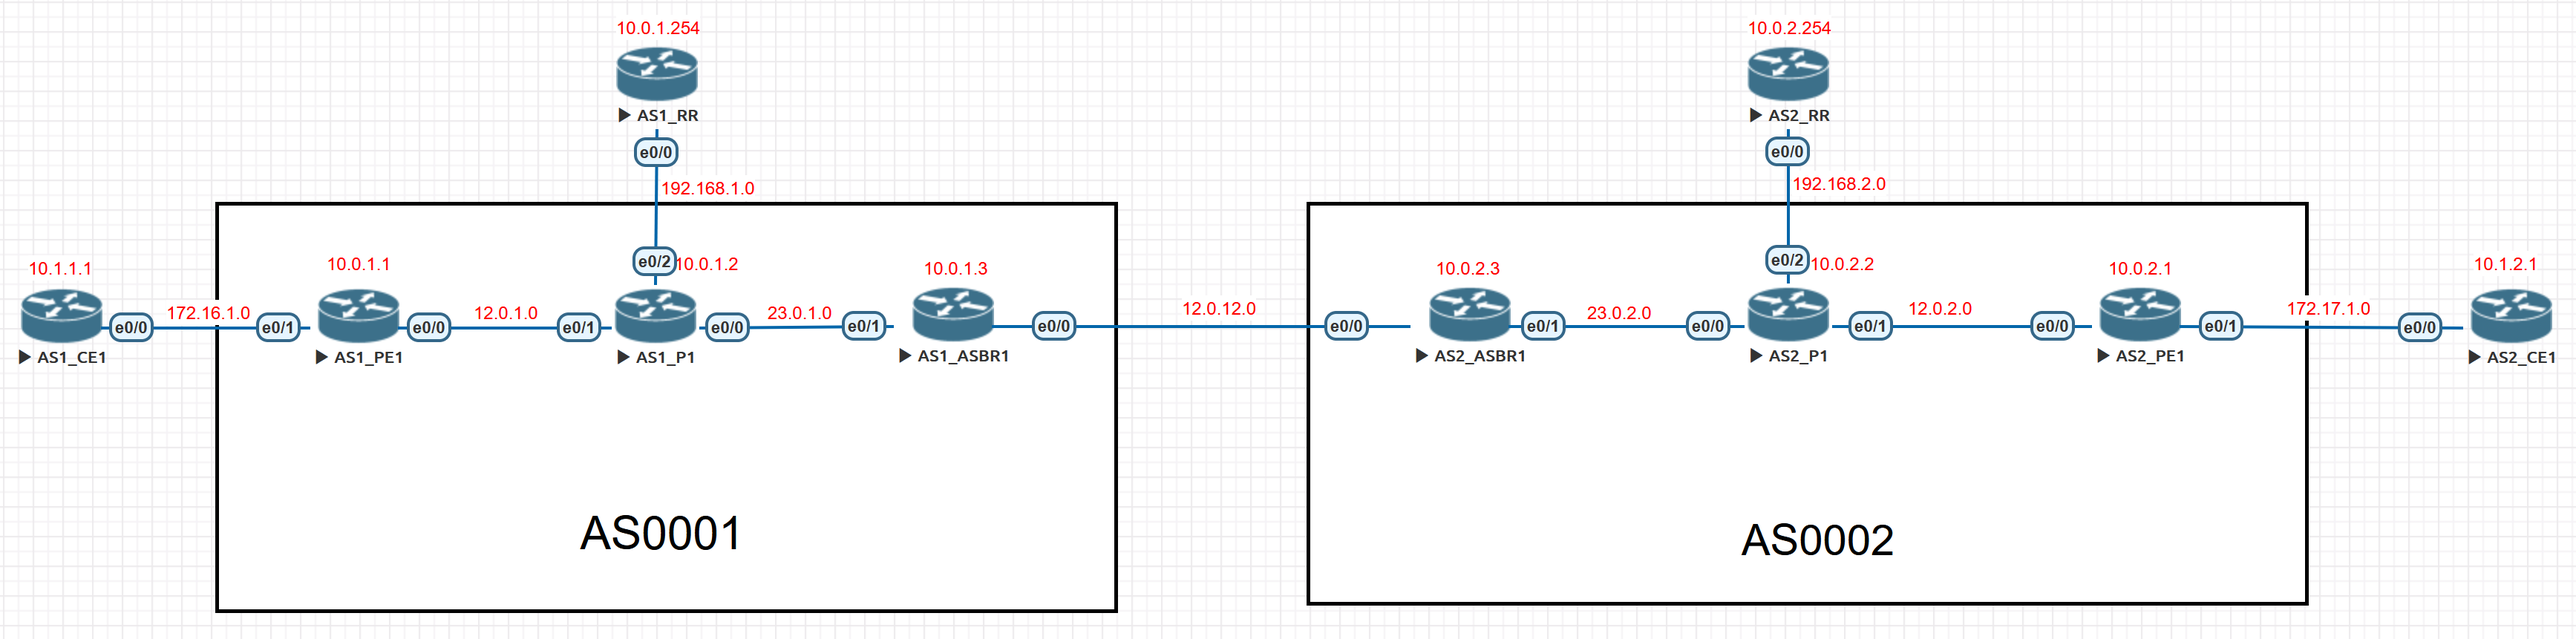
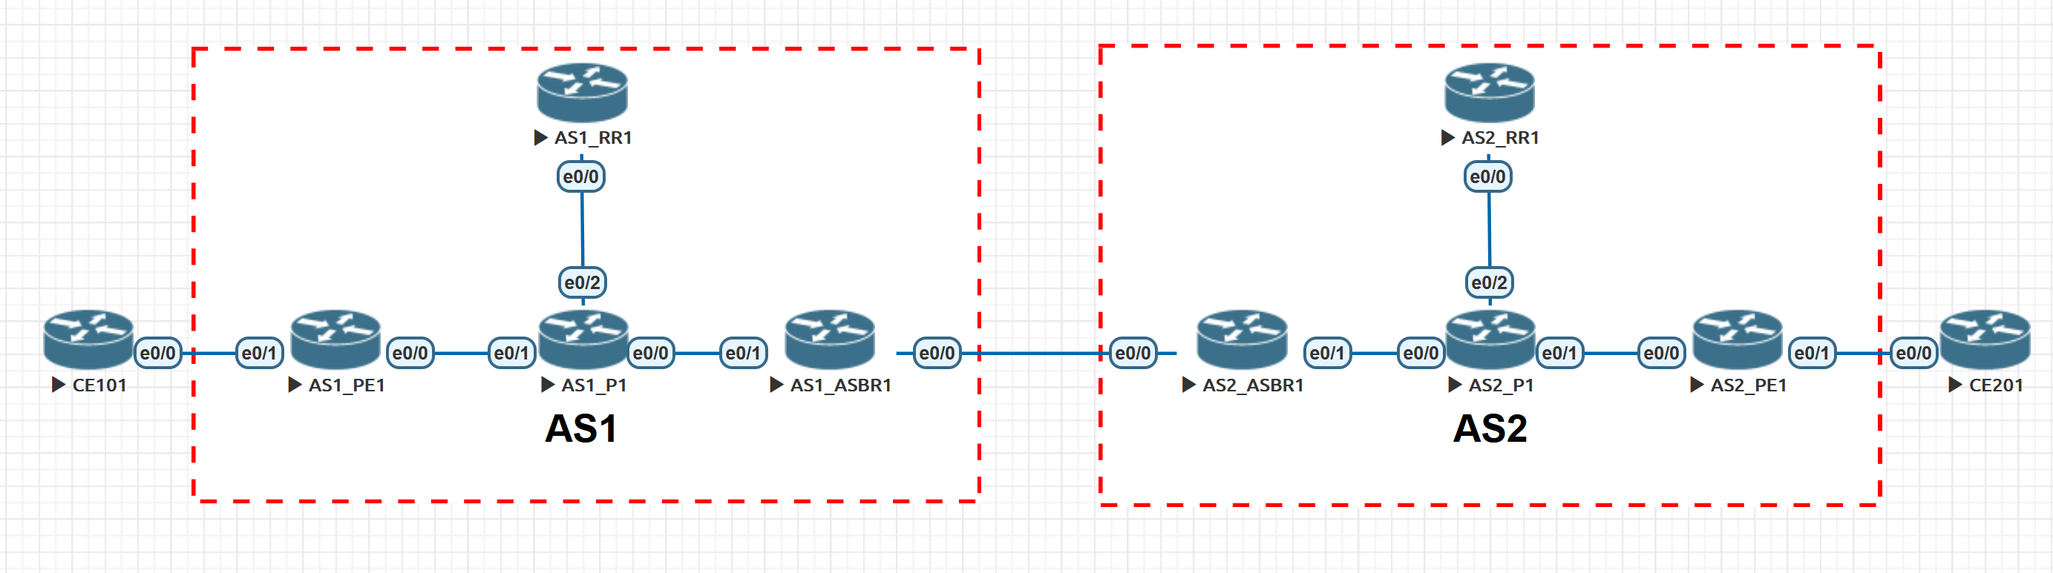
优化设备名称

diff --git a/01_基本配置/AS0001/002_AS1_P1.md b/01_基本配置/AS0001/002_AS1_P1.md
@@ -1,5 +1,6 @@
 #### 初始化
 ```text
+#
 hostname AS1_P1
 no ip domain lookup
 interface Loopback0
@@ -21,25 +22,27 @@ interface Ethernet0/2
 line con 0
  exec-timeout 0 0
  logging synchronous
-
+#
 ```
 
 #### 配置IGP（OSPF）
 ```text
+#
 router ospf 1
 network 10.0.1.2 0.0.0.0 area 0
 network 12.0.1.2 0.0.0.0 area 0
 network 23.0.1.2 0.0.0.0 area 0
 network 192.168.1.2 0.0.0.0 area 0
-
+#
 ```
 
 #### 配置LDP
 ```text
+#
 mpls ldp router-id Loopback0 force
 router ospf 1
 mpls ldp autoconfig
-
+#
 ```
 
 #### 配置BGP（P路由器不需要运行MP-BGP）

diff --git a/01_基本配置/AS0002/002_AS2_P1.md b/01_基本配置/AS0002/002_AS2_P1.md
@@ -1,5 +1,6 @@
 #### 初始化
 ```text
+#
 hostname AS2_P1
 no ip domain lookup
 interface Loopback0
@@ -21,25 +22,27 @@ interface Ethernet0/2
 line con 0
  exec-timeout 0 0
  logging synchronous
-
+#
 ```
 
 #### 配置IGP（OSPF）
 ```text
+#
 router ospf 1
 network 10.0.2.2 0.0.0.0 area 0
 network 12.0.2.2 0.0.0.0 area 0
 network 23.0.2.2 0.0.0.0 area 0
 network 192.168.2.2 0.0.0.0 area 0
-
+#
 ```
 
 #### 配置LDP
 ```text
+#
 mpls ldp router-id Loopback0 force
 router ospf 1
 mpls ldp autoconfig
-
+#
 ```
 
 #### 配置BGP（P路由器不需要运行MP-BGP）

diff --git a/01_基本配置/AS0001/003_AS1_ASBR1.md b/01_基本配置/AS0001/003_AS1_ASBR1.md
@@ -1,5 +1,6 @@
 #### 初始化
 ```text
+#
 hostname AS1_ASBR1
 no ip domain lookup
 interface Loopback0
@@ -16,22 +17,24 @@ interface Ethernet0/1
 line con 0
  exec-timeout 0 0
  logging synchronous
-
+#
 ```
 
 #### 配置IGP（OSPF）
 ```text
+#
 router ospf 1
 network 10.0.1.3 0.0.0.0 area 0
 network 23.0.1.3 0.0.0.0 area 0
-
+#
 ```
 
 #### 配置LDP
 ```text
+#
 mpls ldp router-id Loopback0 force
 router ospf 1
 mpls ldp autoconfig
-
+#
 ```
 

diff --git a/01_基本配置/AS0002/003_AS2_ASBR1.md b/01_基本配置/AS0002/003_AS2_ASBR1.md
@@ -1,5 +1,6 @@
 #### 初始化
 ```text
+#
 hostname AS2_ASBR1
 no ip domain lookup
 interface Loopback0
@@ -16,22 +17,24 @@ interface Ethernet0/1
 line con 0
  exec-timeout 0 0
  logging synchronous
-
+#
 ```
 
 #### 配置IGP（OSPF）
 ```text
+#
 router ospf 1
 network 10.0.2.3 0.0.0.0 area 0
 network 23.0.2.3 0.0.0.0 area 0
-
+#
 ```
 
 #### 配置LDP
 ```text
+#
 mpls ldp router-id Loopback0 force
 router ospf 1
 mpls ldp autoconfig
-
+#
 ```
 

diff --git a/01_基本配置/AS0002/001_AS2_PE1.md b/01_基本配置/AS0002/001_AS2_PE1.md
@@ -1,5 +1,6 @@
 #### 初始化
 ```text
+#
 hostname AS2_PE1
 no ip domain lookup
 interface Loopback0
@@ -16,21 +17,24 @@ interface Ethernet0/1
 line con 0
  exec-timeout 0 0
  logging synchronous
-
+#
 ```
 
 #### 配置IGP（OSPF）
 ```text
+#
 router ospf 1
 network 10.0.2.1 0.0.0.0 area 0
 network 12.0.2.1 0.0.0.0 area 0
+#
 ```
 
 #### 配置LDP
 ```text
+#
 mpls ldp router-id Loopback0 force
 router ospf 1
 mpls ldp autoconfig
-
+#
 ```
 

diff --git a/01_基本配置/AS0001/001_AS1_PE1.md b/01_基本配置/AS0001/001_AS1_PE1.md
@@ -1,5 +1,6 @@
 #### 初始化
 ```text
+#
 hostname AS1_PE1
 no ip domain lookup
 interface Loopback0
@@ -16,20 +17,23 @@ interface Ethernet0/1
 line con 0
  exec-timeout 0 0
  logging synchronous
-
+#
 ```
 
 #### 配置IGP（OSPF）
 ```text
+#
 router ospf 1
 network 10.0.1.1 0.0.0.0 area 0
 network 12.0.1.1 0.0.0.0 area 0
+#
 ```
 
 #### 配置LDP
 ```text
+#
 mpls ldp router-id Loopback0 force
 router ospf 1
 mpls ldp autoconfig
-
+#
 ```

diff --git a/01_基本配置/AS0001/101_CE101.md b/01_基本配置/AS0001/101_CE101.md
@@ -1,6 +1,7 @@
 #### 初始化
 ```text
-hostname AS1_CE1
+#
+hostname CE101
 no ip domain lookup
 interface Loopback0
  ip address 10.1.1.1 255.255.255.255
@@ -12,12 +13,13 @@ interface Ethernet0/0
 line con 0
  exec-timeout 0 0
  logging synchronous
-
+#
 ```
 
 #### 配置OSPF
 ```text
+#
 router ospf 1001
  network 0.0.0.0 255.255.255.255 area 0
- 
+#
 ```

diff --git a/01_基本配置/AS0002/004_AS2_RR.md b/01_基本配置/AS0002/004_AS2_RR.md
@@ -1,5 +1,6 @@
 #### 初始化
 ```text
+#
 hostname AS2_RR
 no ip domain lookup
 interface Loopback0
@@ -13,13 +14,15 @@ interface Ethernet0/0
 line con 0
  exec-timeout 0 0
  logging synchronous
-
+#
 ```
 
 #### 配置IGP（OSPF）
 ```text
+#
 router ospf 1
 network 10.0.2.254 0.0.0.0 area 0
 network 192.168.2.1 0.0.0.0 area 0
+#
 ```
 

diff --git a/01_基本配置/AS0001/004_AS1_RR.md b/01_基本配置/AS0001/004_AS1_RR.md
@@ -1,5 +1,6 @@
 #### 初始化
 ```text
+#
 hostname AS1_RR
 no ip domain lookup
 interface Loopback0
@@ -13,12 +14,14 @@ interface Ethernet0/0
 line con 0
  exec-timeout 0 0
  logging synchronous
-
+#
 ```
 
 #### 配置IGP（OSPF）
 ```text
+#
 router ospf 1
 network 10.0.1.254 0.0.0.0 area 0
 network 192.168.1.1 0.0.0.0 area 0
+#
 ```
